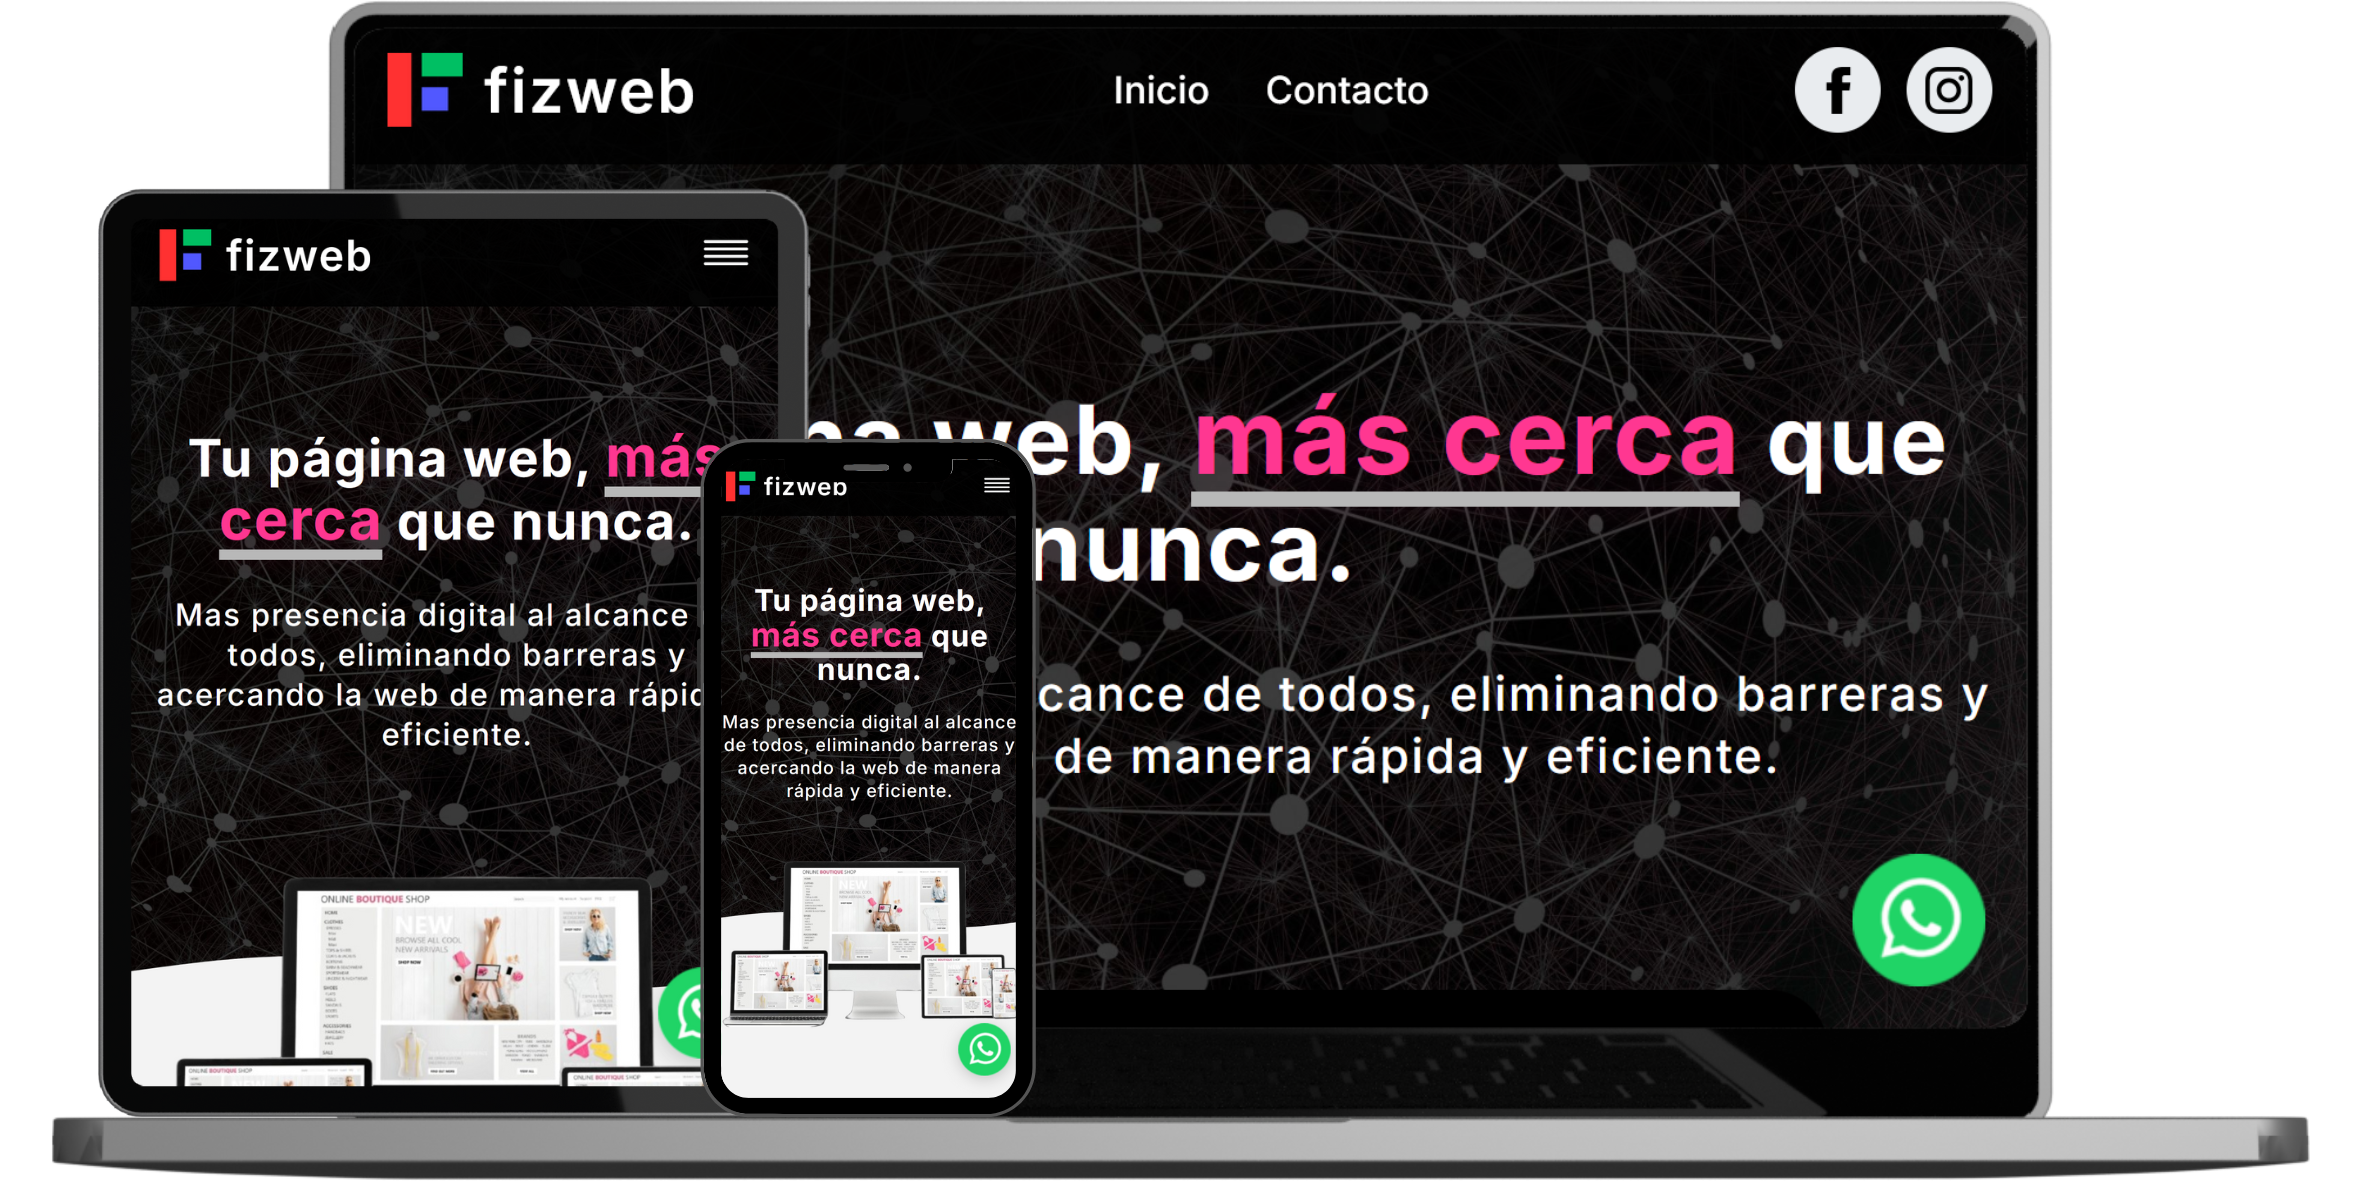
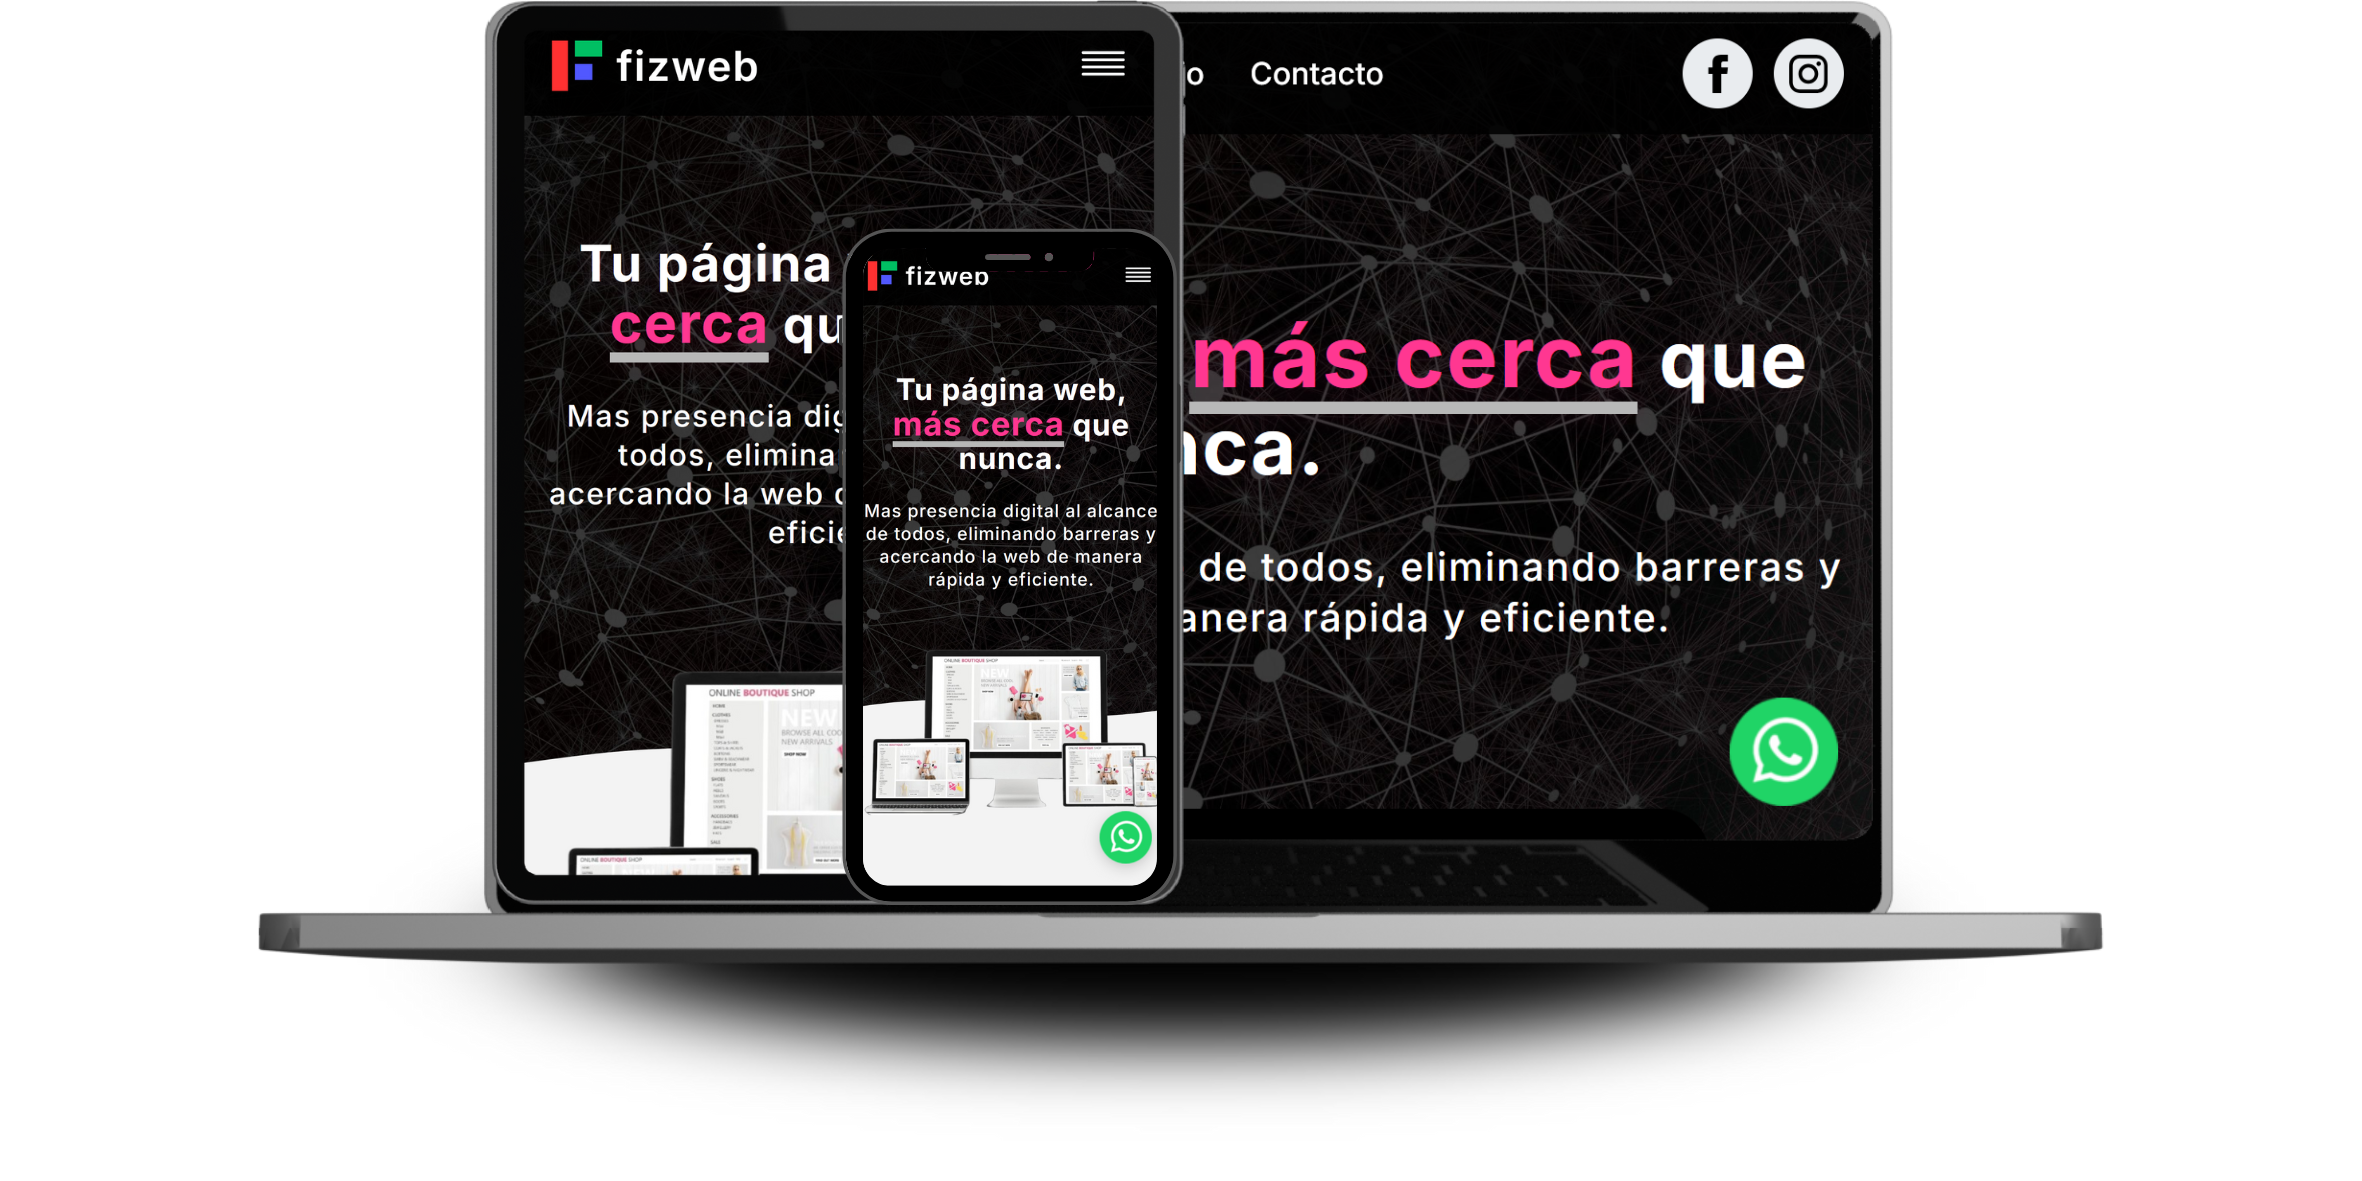
[FIX] bg welcome__banner #3

diff --git a/style.css b/style.css
@@ -538,7 +538,7 @@ body:not(.contact-page) {
     z-index: 1;
     opacity: 1; 
     width: 90%;
-    max-width: 600px;
+    max-width: 800px;
     
 }
 @media (min-width: 901px) and (max-width: 1200px) {
